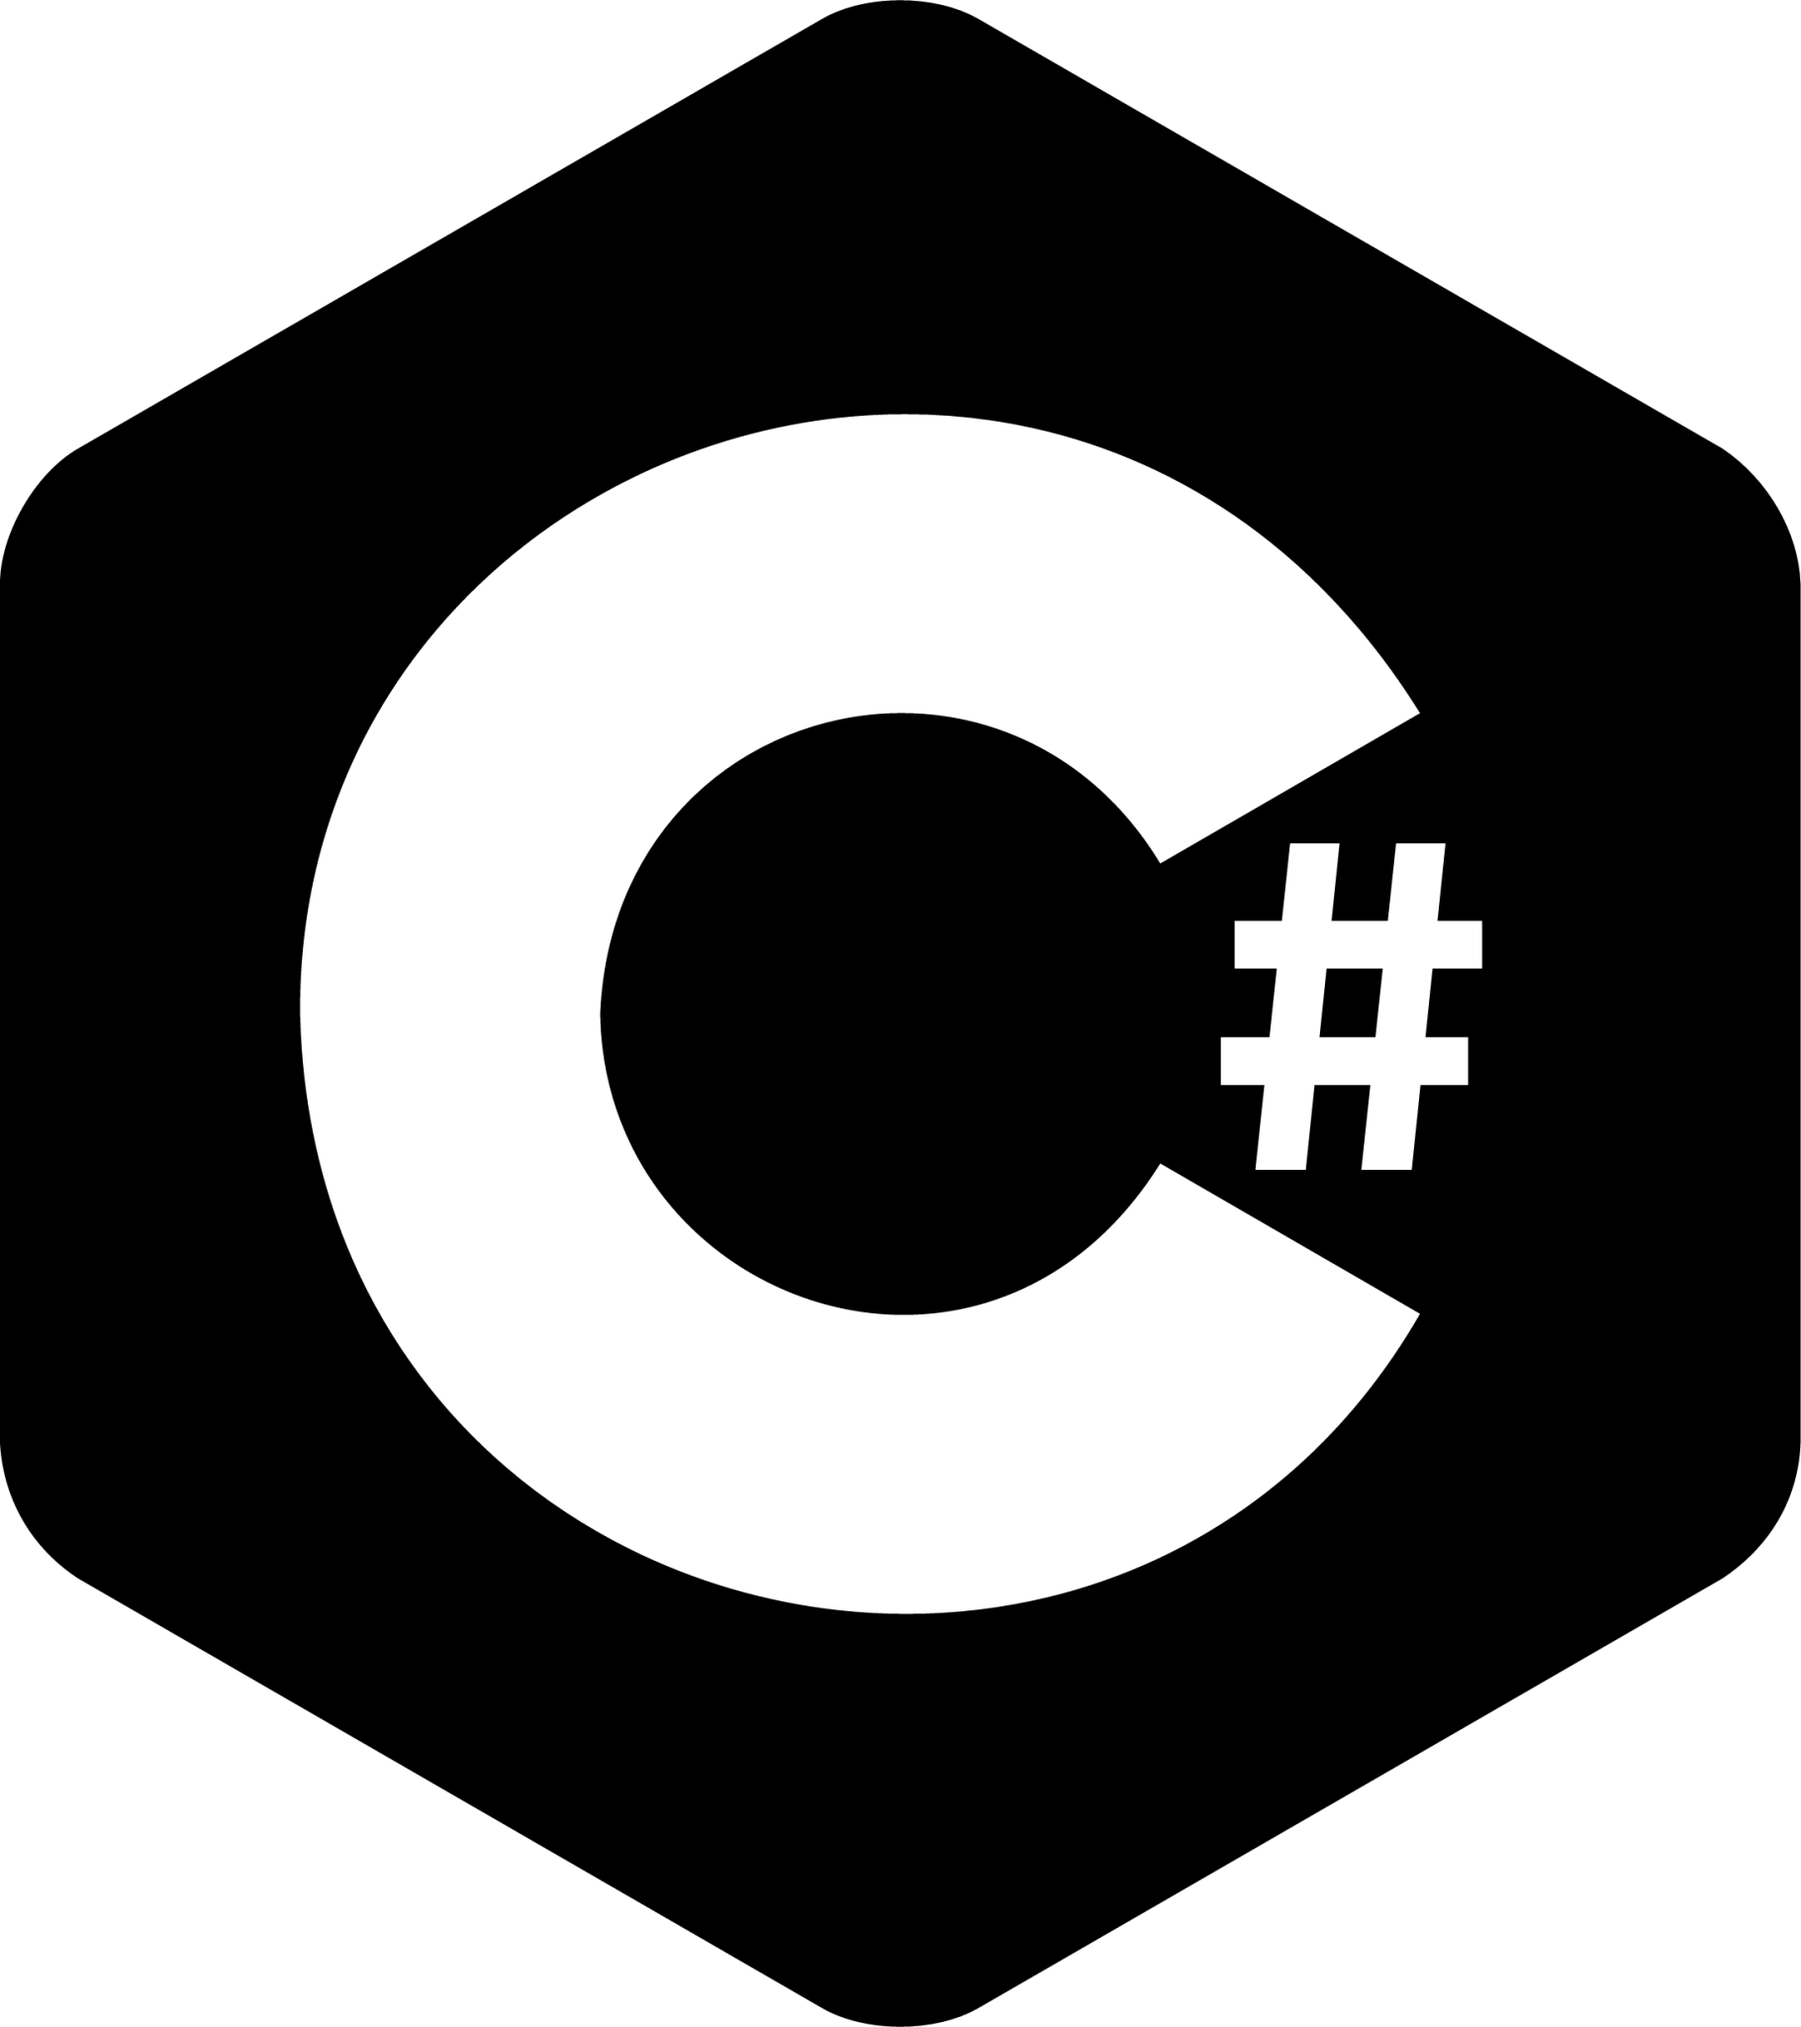
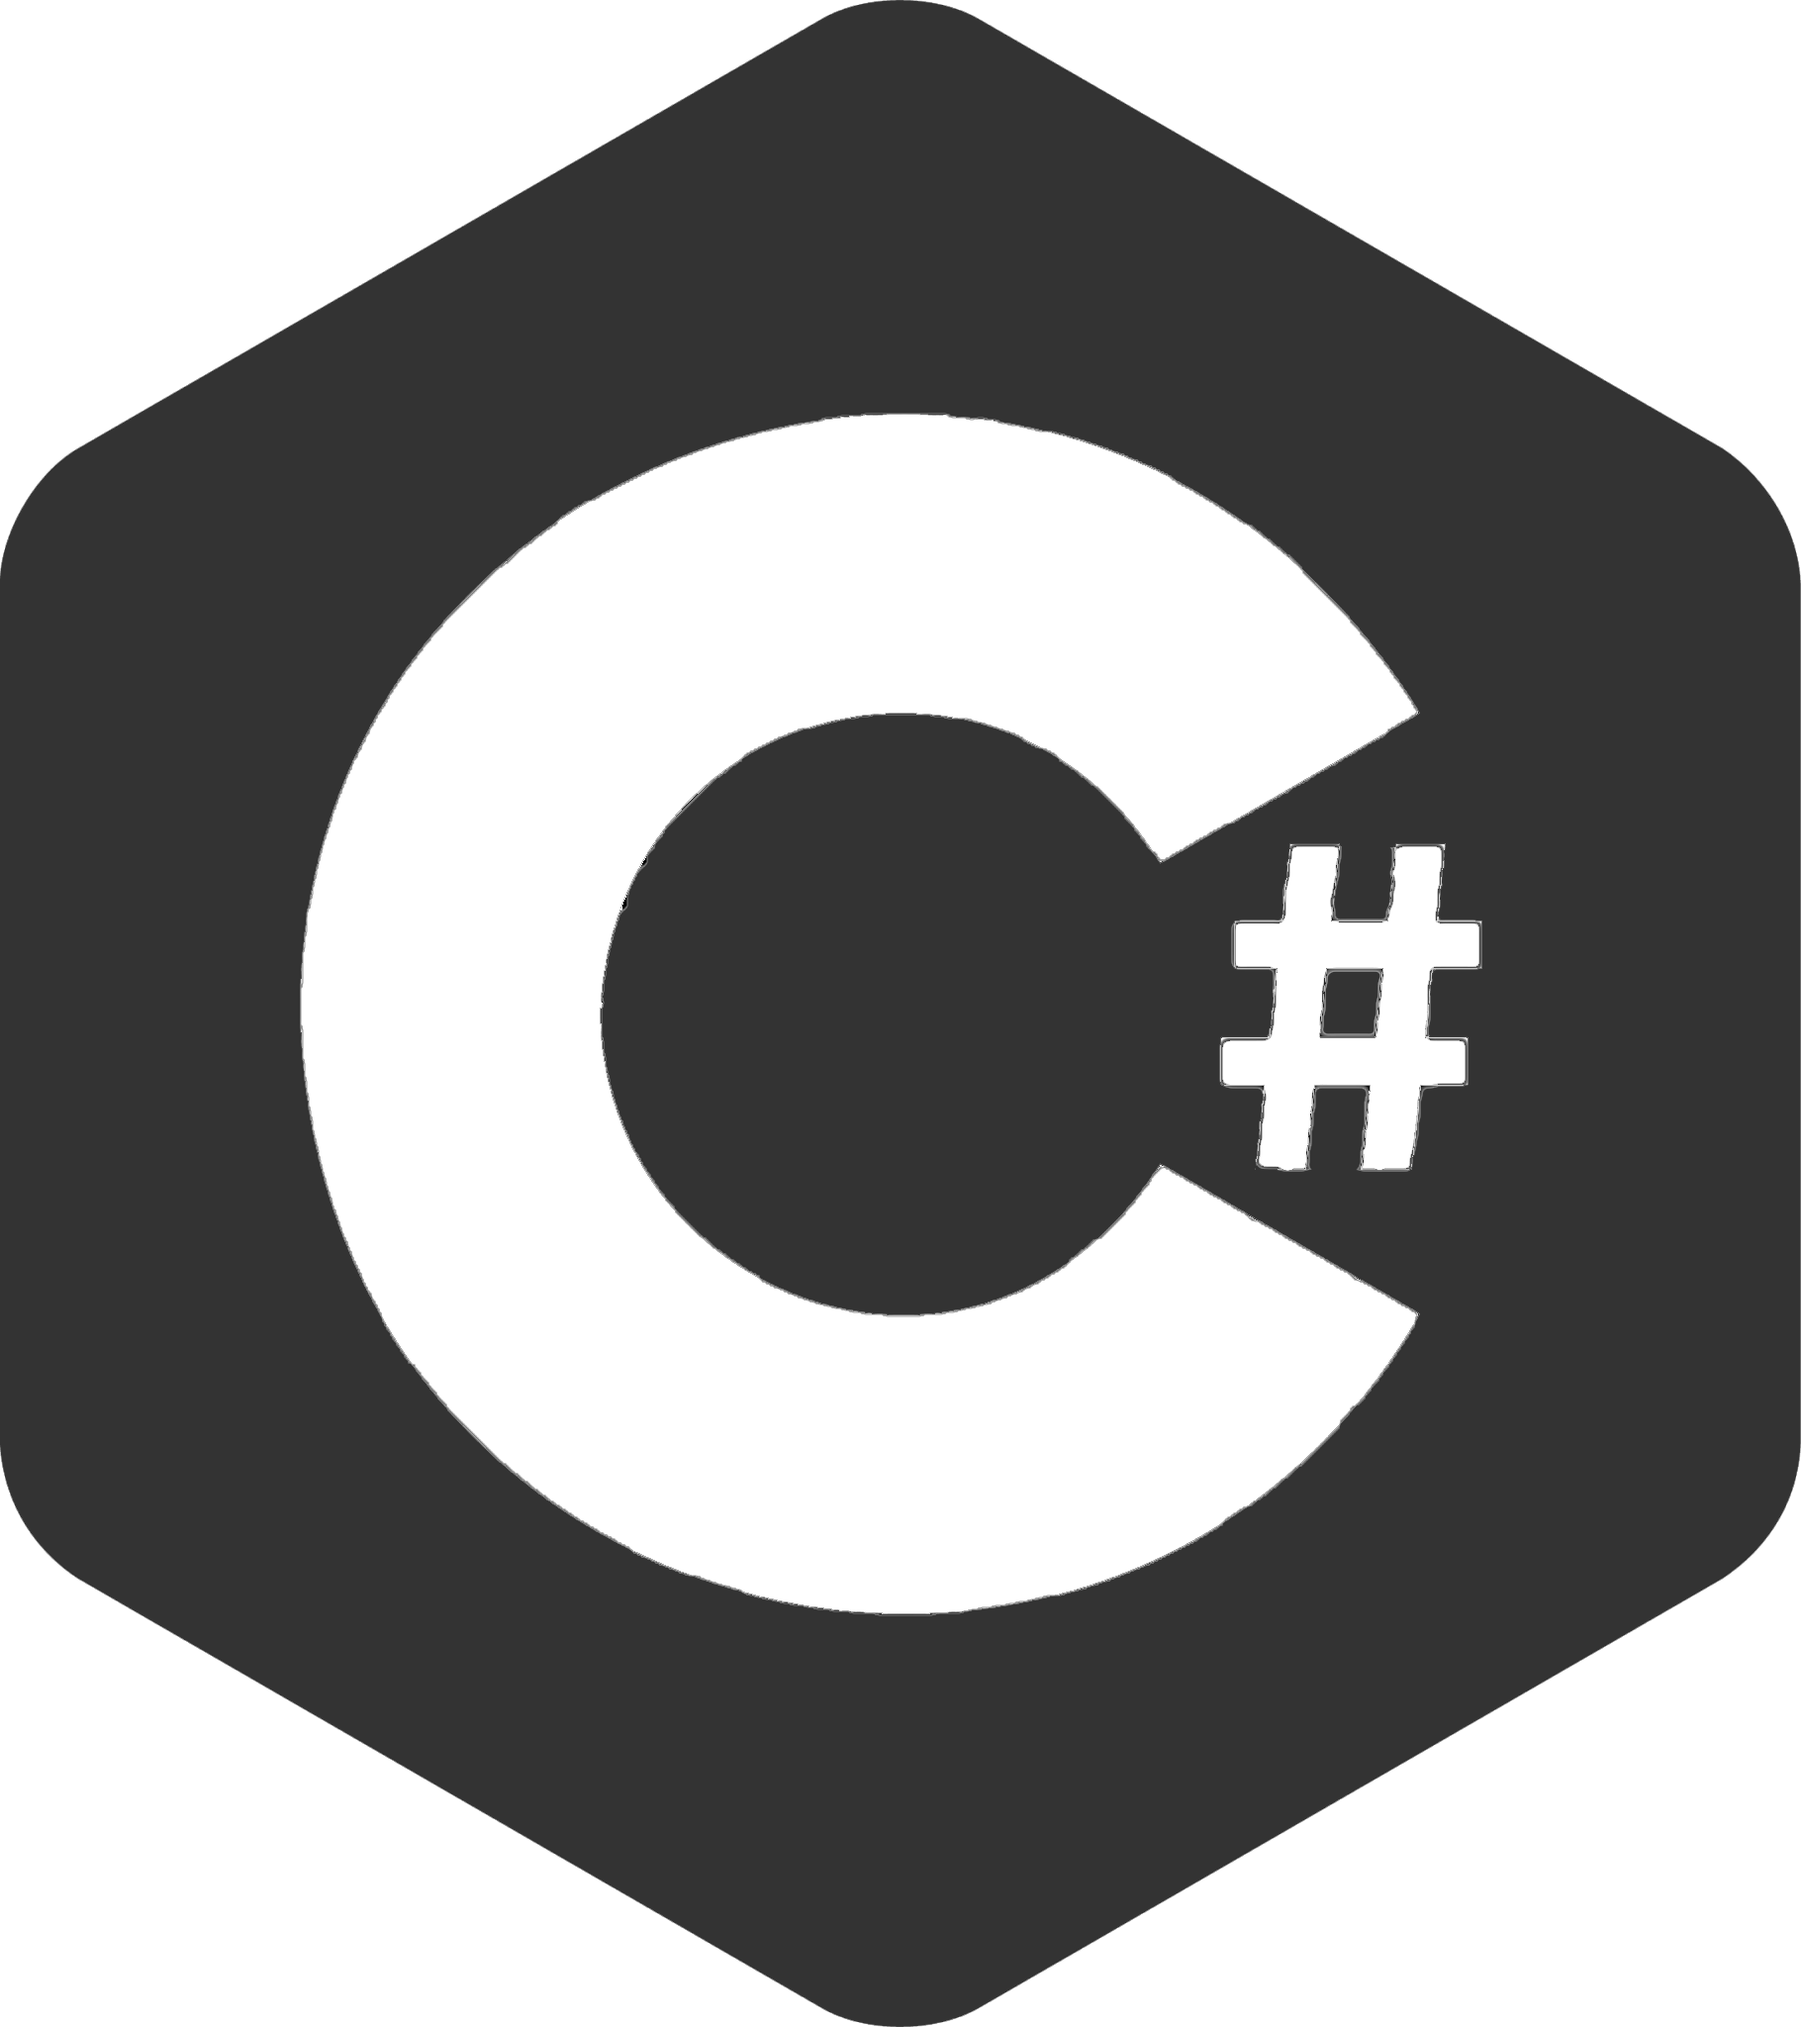
adding csharp image to techstack

diff --git a/src/Components/TechStack/TechStack.jsx b/src/Components/TechStack/TechStack.jsx
@@ -13,7 +13,7 @@ import {
   faFigma,
   faGithub,
   faMongoDB,
-  faMySql
+  faMySql,
 } from "@fortawesome/free-brands-svg-icons";
 import "./TechStack.css";
 import photoshop from "../../assets/icons8-photoshop.svg";
@@ -29,9 +29,10 @@ import babel from "../../assets/babel.svg";
 import slack from "../../assets/slack.svg";
 import jira from "../../assets/jira.svg";
 import chakraIcon from "../../assets/chakraui-svgrepo-com.svg";
-import tailwindIcon from "../../assets/tailwind.svg"; 
-import reduxIcon from "../../assets/redux-fill-svgrepo-com.svg"; 
+import tailwindIcon from "../../assets/tailwind.svg";
+import reduxIcon from "../../assets/redux-fill-svgrepo-com.svg";
 import jqueryIcon from "../../assets/jqueryy.png";
+import icon_16 from "../../assets/icon_16.png";
 
 const TechStack = () => {
   useEffect(() => {
@@ -45,35 +46,89 @@ const TechStack = () => {
       <p className="tech-stack-subtitle">Technologies I've Been Working With</p>
       <div className="icon-row">
         <div className="icon-column fade-right" data-aos="fade-right">
-          <FontAwesomeIcon icon={faHtml5} title="HTML" className="icon" />
+        <img className="csharp-icon" src={icon_16} alt="icon" title="icon" />
+        <FontAwesomeIcon icon={faHtml5} title="HTML" className="icon" />
           <FontAwesomeIcon icon={faCss3Alt} title="CSS" className="icon" />
           <FontAwesomeIcon icon={faJs} title="JavaScript" className="icon" />
           <FontAwesomeIcon icon={faReact} title="React" className="icon" />
           <FontAwesomeIcon icon={faNodeJs} title="Node.js" className="icon" />
           <FontAwesomeIcon icon={faGit} title="Git" className="icon" />
-          <FontAwesomeIcon icon={faMicrosoft} title="Microsoft" className="icon" />
-          <img src={slack} alt="Slack" title="Slack" className="icon" />         
+          <FontAwesomeIcon
+            icon={faMicrosoft}
+            title="Microsoft"
+            className="icon"
+          />
+          <img src={slack} alt="Slack" title="Slack" className="icon" />
           <img src={jira} alt="Jira" title="Jira" className="icon" />
-          <img src={jqueryIcon} alt="jQuery" title="jQuery" className="icon jQueryIcon" />
-          <img src={chakraIcon} alt="Chakra UI" title="Chakra UI" className="icon chakraIcon" />
-          <img src={reduxIcon} alt="Redux" title="Redux" className="icon reduxIcon" />
+          <img
+            src={jqueryIcon}
+            alt="jQuery"
+            title="jQuery"
+            className="icon jQueryIcon"
+          />
+          <img
+            src={chakraIcon}
+            alt="Chakra UI"
+            title="Chakra UI"
+            className="icon chakraIcon"
+          />
+          <img
+            src={reduxIcon}
+            alt="Redux"
+            title="Redux"
+            className="icon reduxIcon"
+          />
         </div>
         <div className="icon-column fade-left" data-aos="fade-left">
-          <FontAwesomeIcon icon={faBootstrap} title="Bootstrap" className="icon" />
+          <FontAwesomeIcon
+            icon={faBootstrap}
+            title="Bootstrap"
+            className="icon"
+          />
           <FontAwesomeIcon icon={faSass} title="Sass" className="icon" />
-          <img src={photoshop} alt="Photoshop" title="Photoshop" className="icon" />          
+          <img
+            src={photoshop}
+            alt="Photoshop"
+            title="Photoshop"
+            className="icon"
+          />
           <FontAwesomeIcon icon={faFigma} title="Figma" className="icon" />
           <FontAwesomeIcon icon={faGithub} title="GitHub" className="icon" />
           <img src={jest} alt="Jest" title="Jest" className="Jesticon" />
-          <img src={postman} alt="Postman" title="Postman" className="postmanicon" />
+          <img
+            src={postman}
+            alt="Postman"
+            title="Postman"
+            className="postmanicon"
+          />
           <img src={sql} alt="SQL" title="SQL" className="icon" />
           <img src={mongo} alt="MongoDB" title="MongoDB" className="icon" />
-          <img src={illustrator} alt="Adobe Illustrator" title="Adobe Illustrator" className="icon" />
-          <img src={postgres} alt="PostgreSQL" title="PostgreSQL" className="icon" />
-          <img src={expressjs} alt="Express.js" title="Express.js" className="icon" />
+          <img
+            src={illustrator}
+            alt="Adobe Illustrator"
+            title="Adobe Illustrator"
+            className="icon"
+          />
+          <img
+            src={postgres}
+            alt="PostgreSQL"
+            title="PostgreSQL"
+            className="icon"
+          />
+          <img
+            src={expressjs}
+            alt="Express.js"
+            title="Express.js"
+            className="icon"
+          />
           <img src={git} alt="Git" title="Git" className="icon" />
           <img src={babel} alt="Babel" title="Babel" className="icon" />
-          <img src={tailwindIcon} alt="Tailwind CSS" title="Tailwind CSS" className="icon tailwindIcon" />
+          <img
+            src={tailwindIcon}
+            alt="Tailwind CSS"
+            title="Tailwind CSS"
+            className="icon tailwindIcon"
+          />
         </div>
       </div>
     </div>

diff --git a/src/Components/TechStack/TechStack.css b/src/Components/TechStack/TechStack.css
@@ -15,6 +15,10 @@
   position: relative;
 }
 
+.csharp-icon {
+  width: 6%;
+}
+
 .tech-stack-header:after {
   content: '';
   display: block;
@@ -64,13 +68,18 @@
   margin-top: 5px;
 }
 
-.jQueryIcon, .chakraIcon, .reduxIcon, .tailwindIcon, .materialUiIcon {
-    width: 80px; 
+.jQueryIcon,
+.chakraIcon,
+.reduxIcon,
+.tailwindIcon,
+.materialUiIcon {
+  width: 80px;
 }
+
 .Jesticon,
-.postmanicon{
-    width: 40px; 
-} 
+.postmanicon {
+  width: 40px;
+}
 
 @media screen and (max-width: 769px) {
   .icon-column {
@@ -95,7 +104,11 @@
     transform: translateX(-50%);
   }
 
-  .jQueryIcon, .chakraIcon, .reduxIcon, .tailwindIcon, .materialUiIcon {
+  .jQueryIcon,
+  .chakraIcon,
+  .reduxIcon,
+  .tailwindIcon,
+  .materialUiIcon {
     width: 30%;
   }
 }
